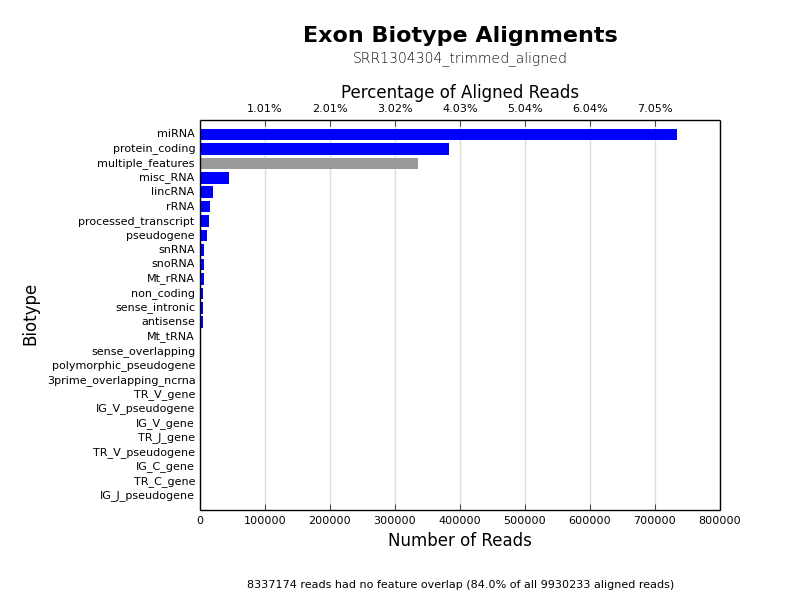
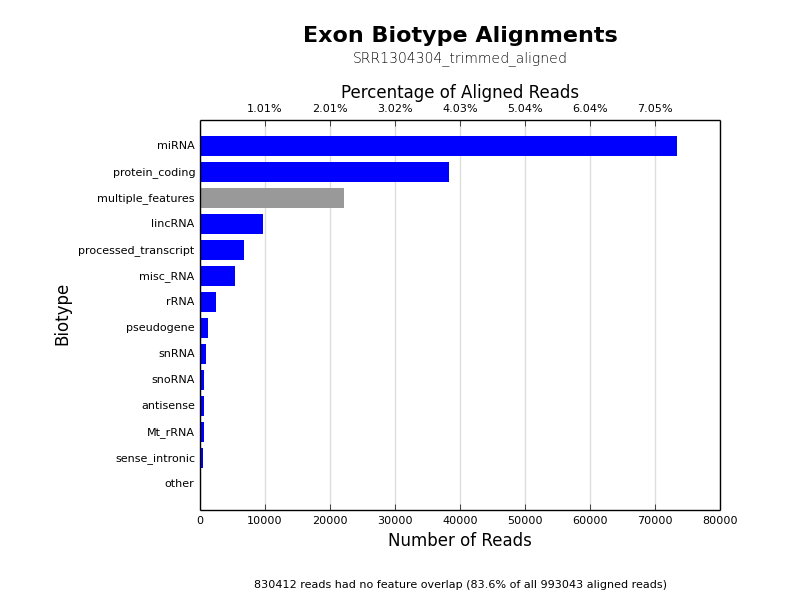
Updated readme and example graphs for count_biotypes

diff --git a/README.md b/README.md
@@ -57,6 +57,13 @@ fine-grained approach:
 (hist_png_fn, hist_pdf_fn) = plot_epic_histogram (lengths, fn_basename)
 ```
 
+#### Translations
+To customise the plots, it is possible to "translate" biotype labels. A file
+called `bt_translations.txt` comes with the script - each line can contain a
+search pattern and a replacement label (tab separated). Search wildcards can be
+included by using an asterisk (`*`). Multiple search strings can be given the
+same biotype label to manually group biotypes together.
+
 ### Example output
 The following plots were generated from a Total Small RNA run in Human cells,
 accession [SRR1304304](http://www.ncbi.nlm.nih.gov/sra/?term=SRR1304304).
@@ -78,7 +85,10 @@ Command Line Flag | `count_biotypes()` argument name | Description
 `--biotype-flag`, `-b` | `biotype_flag` | Default: `gene_type` (will also look for any flag containing `biotype`).<br>Name of annotation flag to collect biotype label from.
 `--genome-feature`, `-t` | `feature_type` | Default: `exon`.<br>Type of feature to inspect within GTF file.
 `--num-lines`, `-n` | `num_lines` | Default: 10 million.<br>Number of lines to read from aligned BAM file.
+`--no-overlap`, `-o` | `no_overlap` | Default: False.<br>Include features with no feature overlap in plots.
+`--cols`, `-c` | `equidistant_cols` | Default: False.<br>Plot graphs using equidistant colours to prevent duplicated label colours.
 `--log`, `-l` | `log_level` | Default: info.<br>Specify the level of logging: debug, info or warning.
+`--log-output`, `-u` | `log_output` | Default: stdout.<br>Log output filename.
 
 ### Dependencies
 
